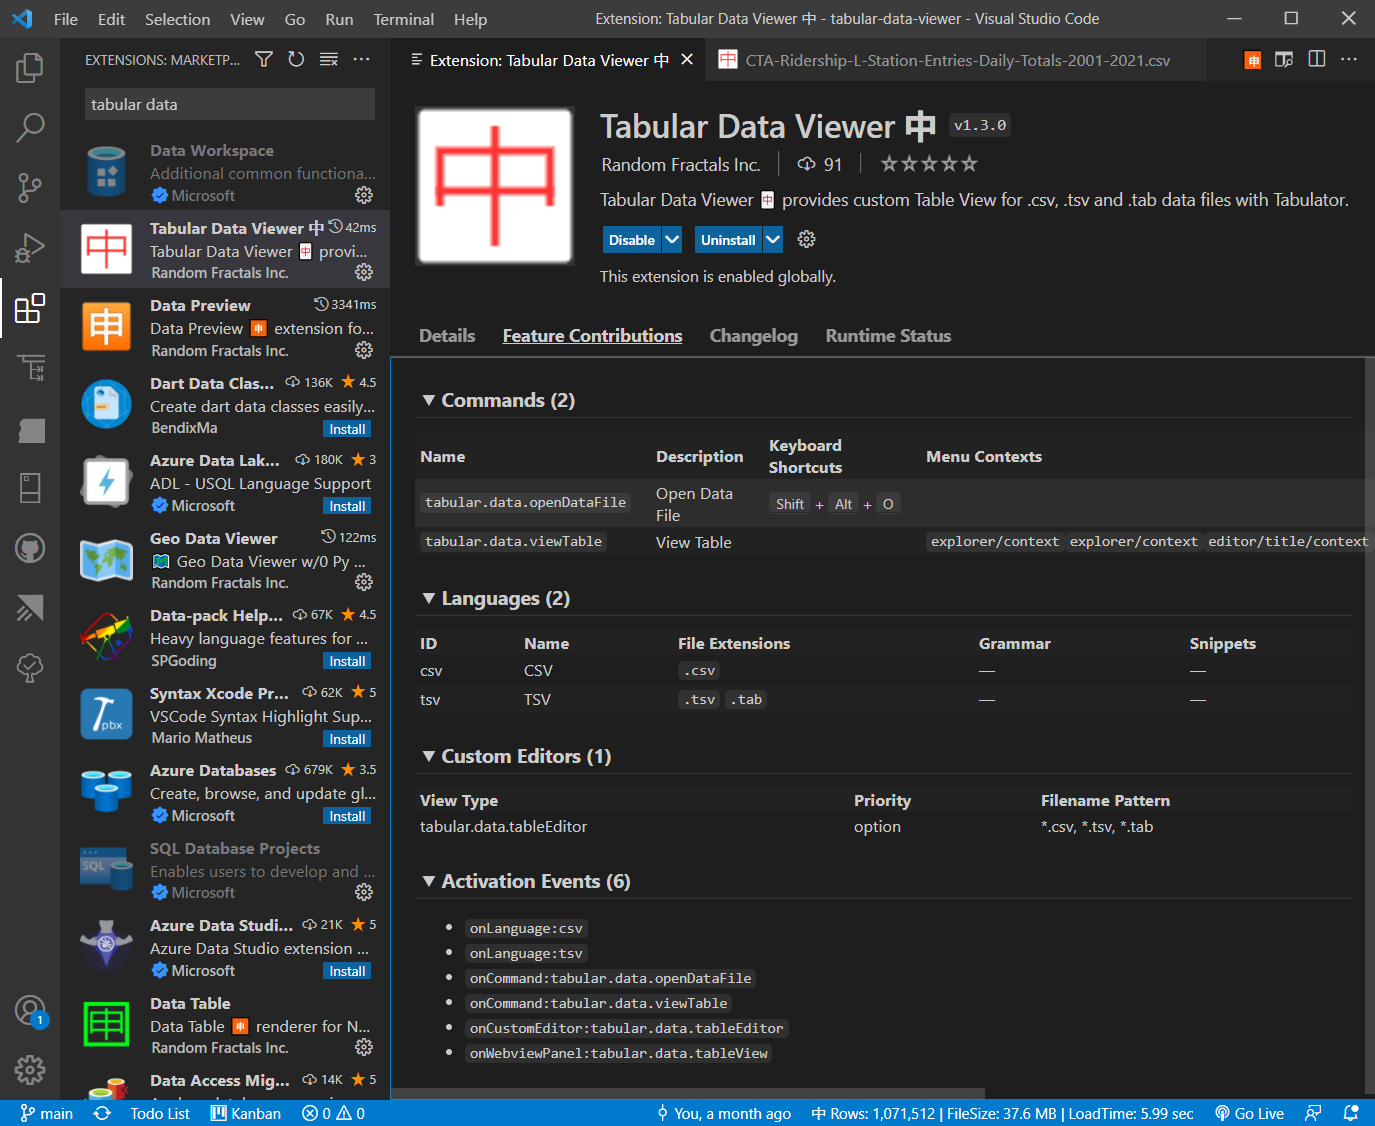
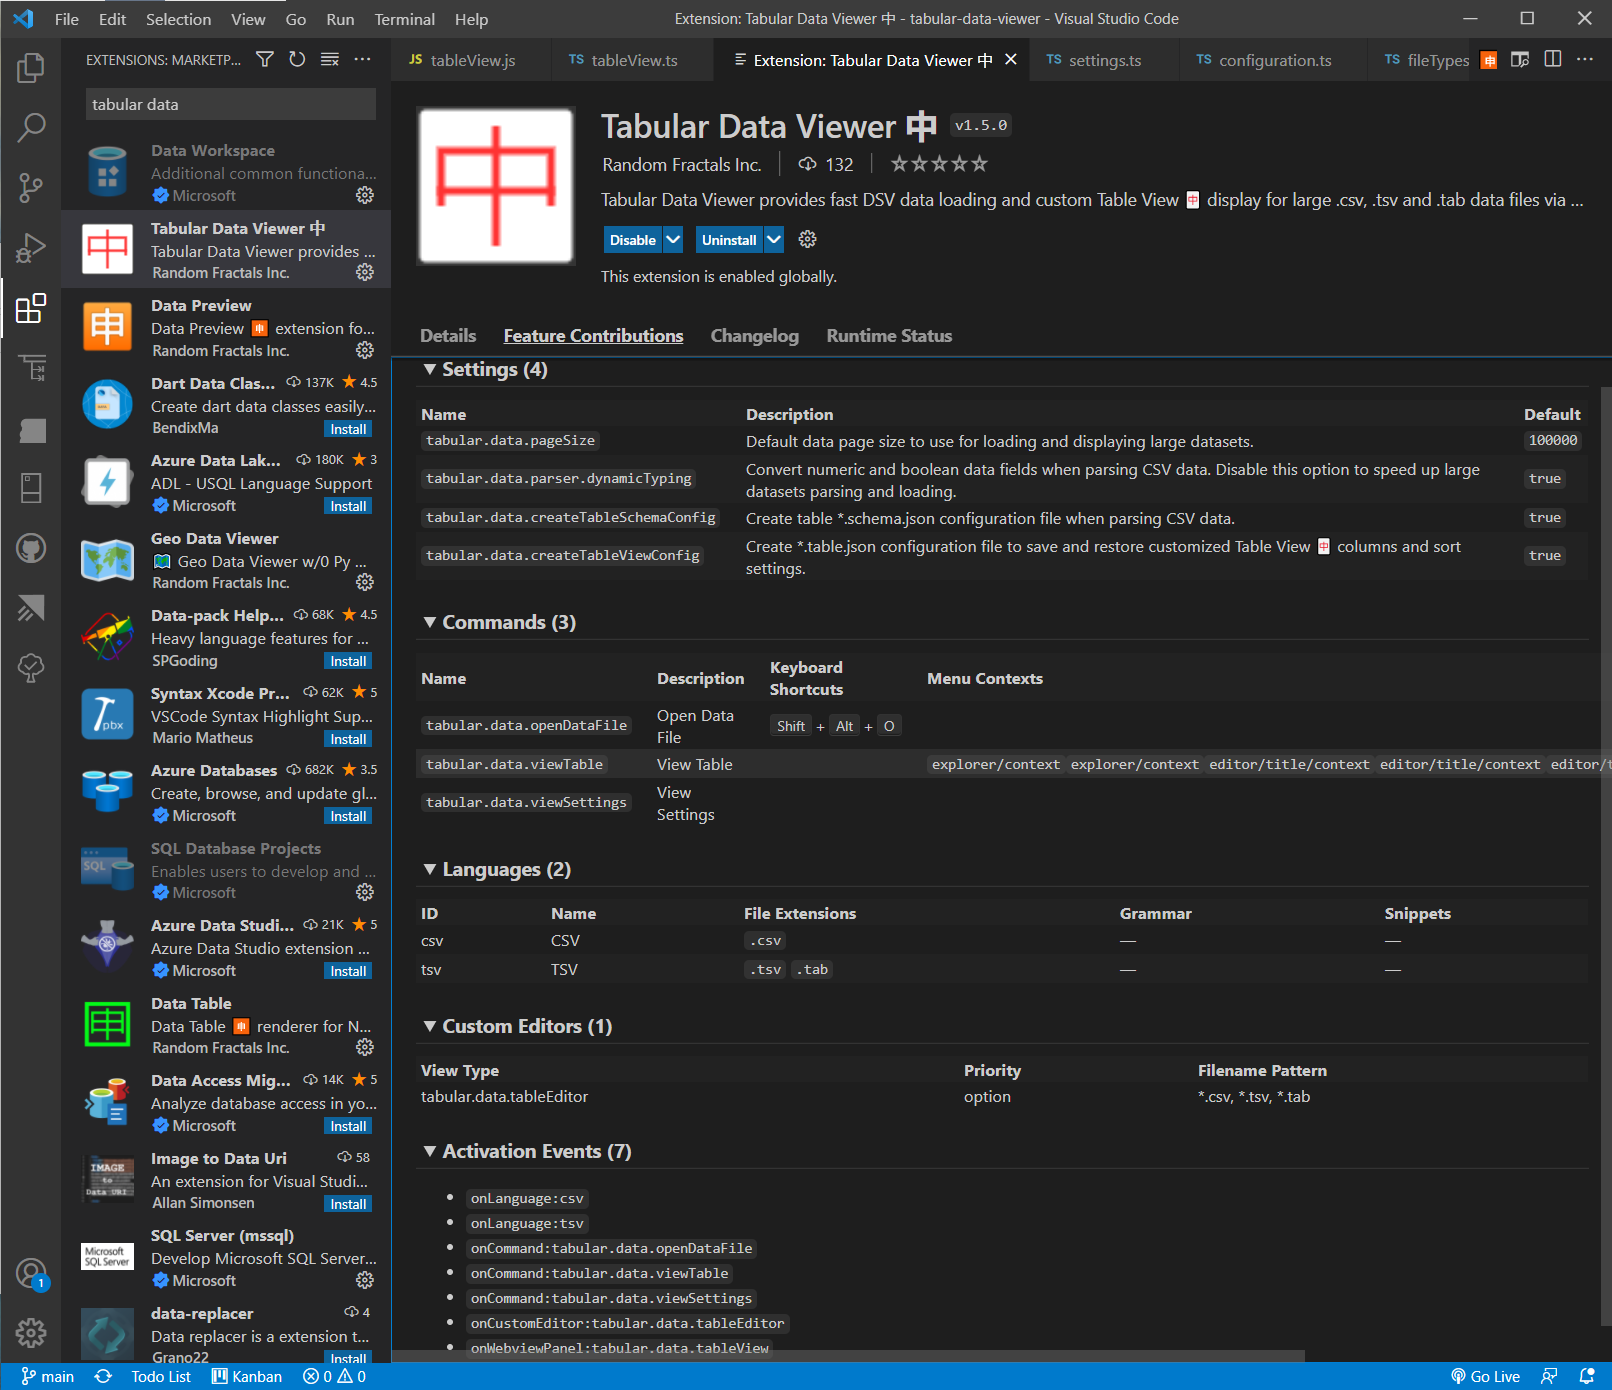
update contributions section and pic in docs for config settings release v1.5.0 (#73)

diff --git a/README.md b/README.md
@@ -56,7 +56,7 @@ Large CSV data files streaming and display is very alpha and has the following l
 
 # Contributions
 
-Commands, languages, editor/view types and activation events contributed to VSCode IDE by Tabular Data Viewer 中:
+Tabular Data Viewer 中 Settings, Commands, Languages, Custom Editors and Activation Events contributed to VSCode IDE:
 
 ![Tabular Data Viewer 中 Feature Contributions](https://github.com/RandomFractals/tabular-data-viewer/blob/main/docs/images/tabular-data-viewer-feature-contributions.png?raw=true 
  "Tabular Data Viewer 中 Feature Contributions")
